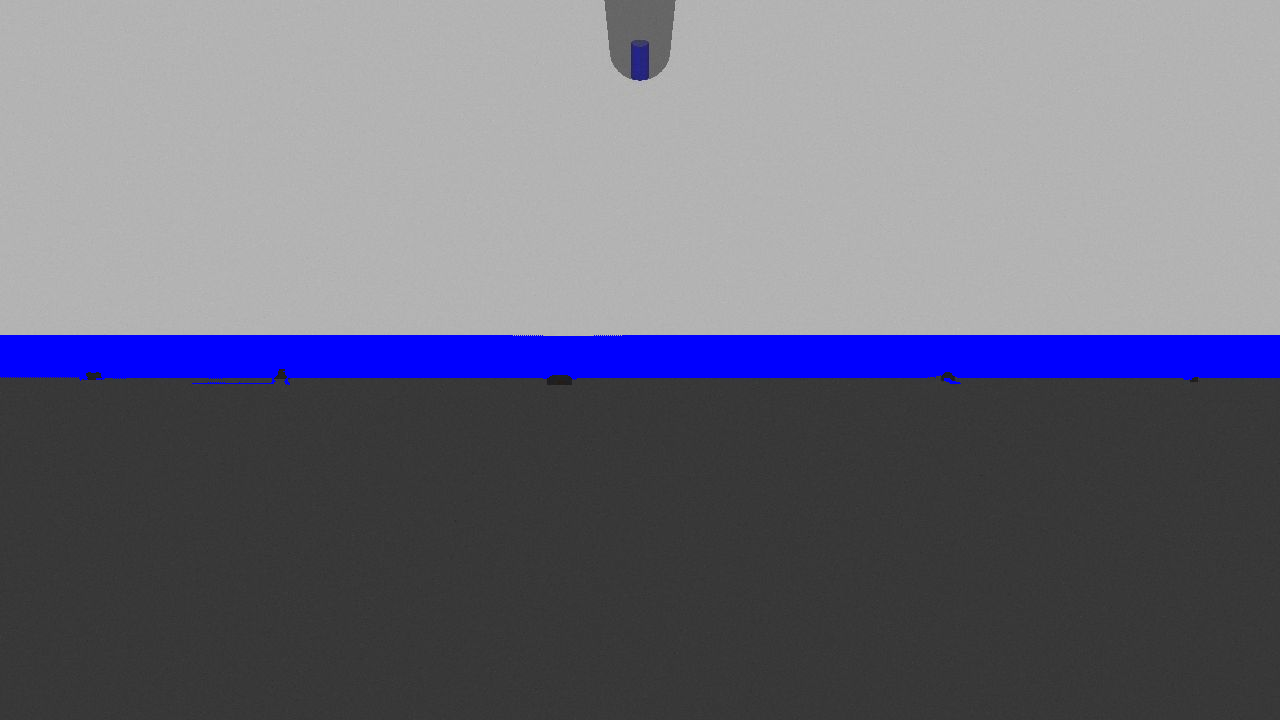
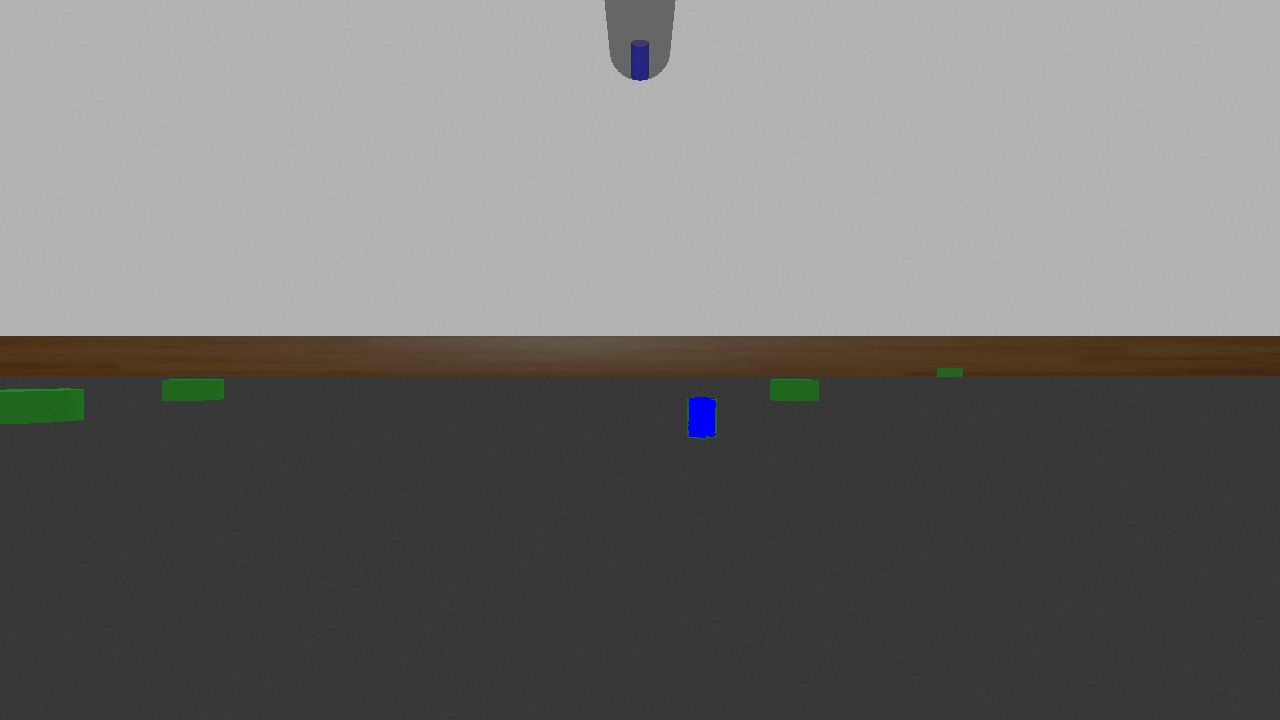
detection herbe validée

Changed region(s): [[0.0, 0.4583, 1.0, 0.6111]]

diff --git a/desherbor_ensta/scripts/herb_position.py b/desherbor_ensta/scripts/herb_position.py
@@ -33,8 +33,8 @@ def get_bounding_box(img,disp = False):
 
 	# interval HSV of green
 	#(120,100,50)
-	greenLow = (10, 10, 10) #(36,0,0)
-	greenUp = (70, 255,255) #(86,255,255)
+	greenLow = (50, 100, 100) #(36,0,0)
+	greenUp = (75, 255, 255) #(86,255,255)
 
 	#construct a mask
 	mask = cv2.inRange(hsv, greenLow, greenUp)
@@ -46,7 +46,14 @@ def get_bounding_box(img,disp = False):
 	if len(contours)!=0 :
 		# rospy.loginfo("Herbe détectée")
 
-		contour = max(contours, key = cv2.contourArea)
+		contour = contours[0]
+		for c in contours:
+			x,y,w,h = cv2.boundingRect(contour)
+			x1,y1,w1,h1 = cv2.boundingRect(c)
+			if h1 > h:
+				contour = c
+
+		# contour = max(contours, key = cv2.contourArea)
 
 		cv2.drawContours(Img, [contour], -1, 255, -1)
 
@@ -61,6 +68,7 @@ def get_bounding_box(img,disp = False):
 		# area = cv2.contourArea(contour)
 
 		x, y, w, h = cv2.boundingRect(contour)
+		print(x,y,w,h)
 	else :
 		x,y,w,h =0,0,0,0
 	return x, y, w, h
@@ -88,19 +96,16 @@ def get_angle(xc,npx,a = 90, b = 0):
 	theta = a*(xc-npx/2)/npx + b # angle en coordonnées polaire dans le repère du robot
 	return theta
 
-def get_radius(w,h,c=1):
+def get_radius(h,c=45.0):
 	"""
 	calcule la distance de l'herbe au robot
-	fonction linéaire de la surface de la bounding box
-	r = S/c
 	input:
-		w,h: largeur et hauteur de la bounding box
-		c: une constante
+		h: hauteur de la bounding box
+		c: constante dépendant du nombre de pixels de la caméra et de la hauteur de l'herbe
 	output:
-		r: distance s	input:
-éparant l'herbe du robot
+		r: distance s
 	"""
-	r = h/c
+	r = c/h
 	return r
 
 def get_position(img):
@@ -117,7 +122,7 @@ def get_position(img):
 	x,y,w,h = get_bounding_box(img)
 	xc,yc = get_central_point(x,y,w,h)
 	theta = get_angle(xc,npx)
-	r = get_radius(w,h)
+	r = get_radius(h)
 	return r,theta
 
 def callback(message):
@@ -129,7 +134,7 @@ def callback(message):
 	np_arr = np.fromstring(message.data,np.uint8)
 	image = cv2.imdecode(np_arr,cv2.IMREAD_COLOR)
 
-	x,y,w,h = get_bounding_box(image, True)
+	# x,y,w,h = get_bounding_box(image, True)
 	r,theta = get_position(image)
 	print(r,theta)
 
